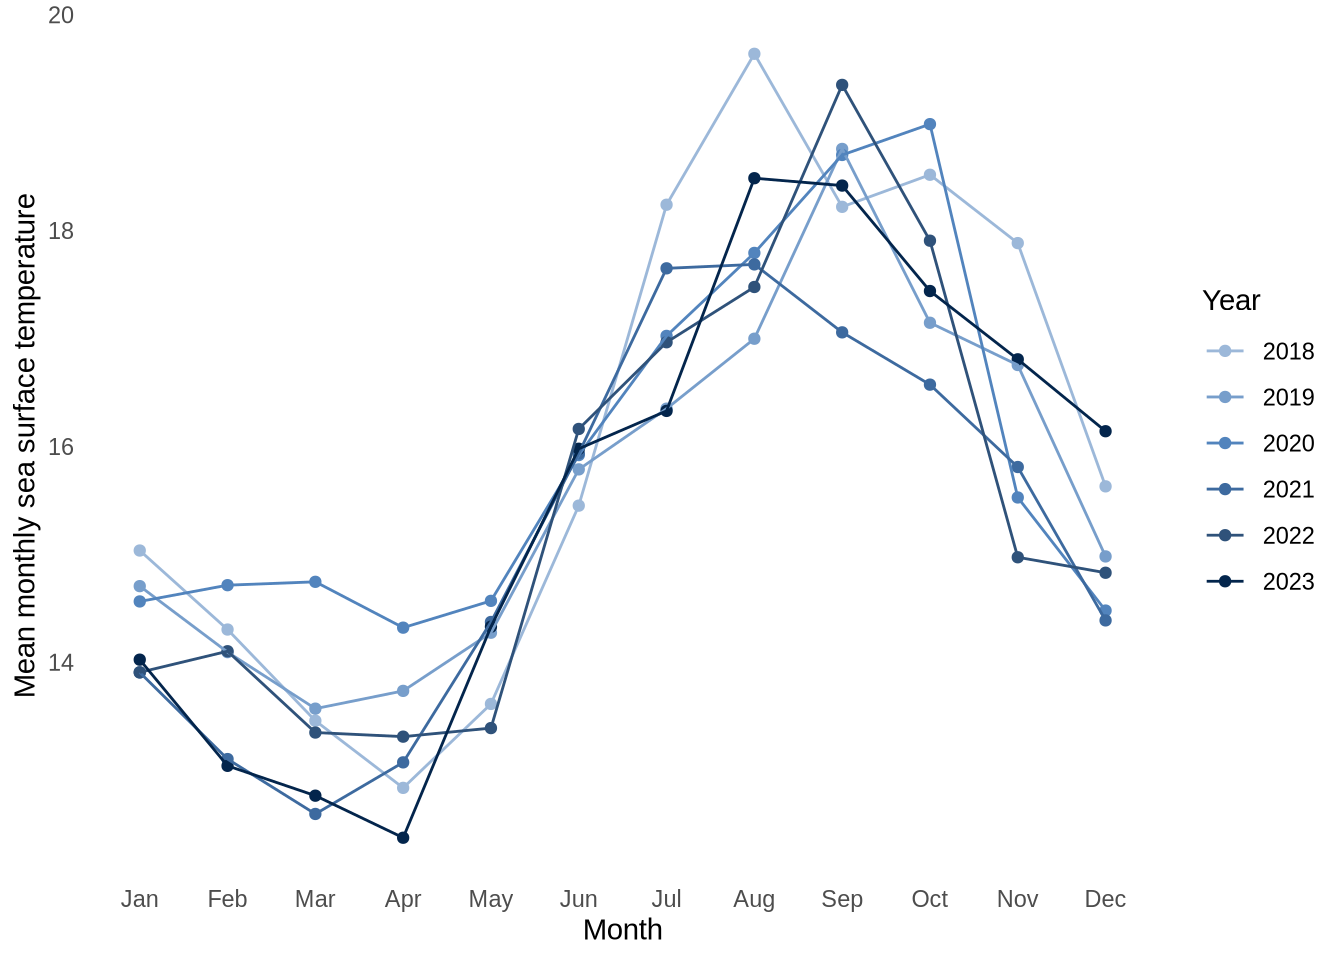
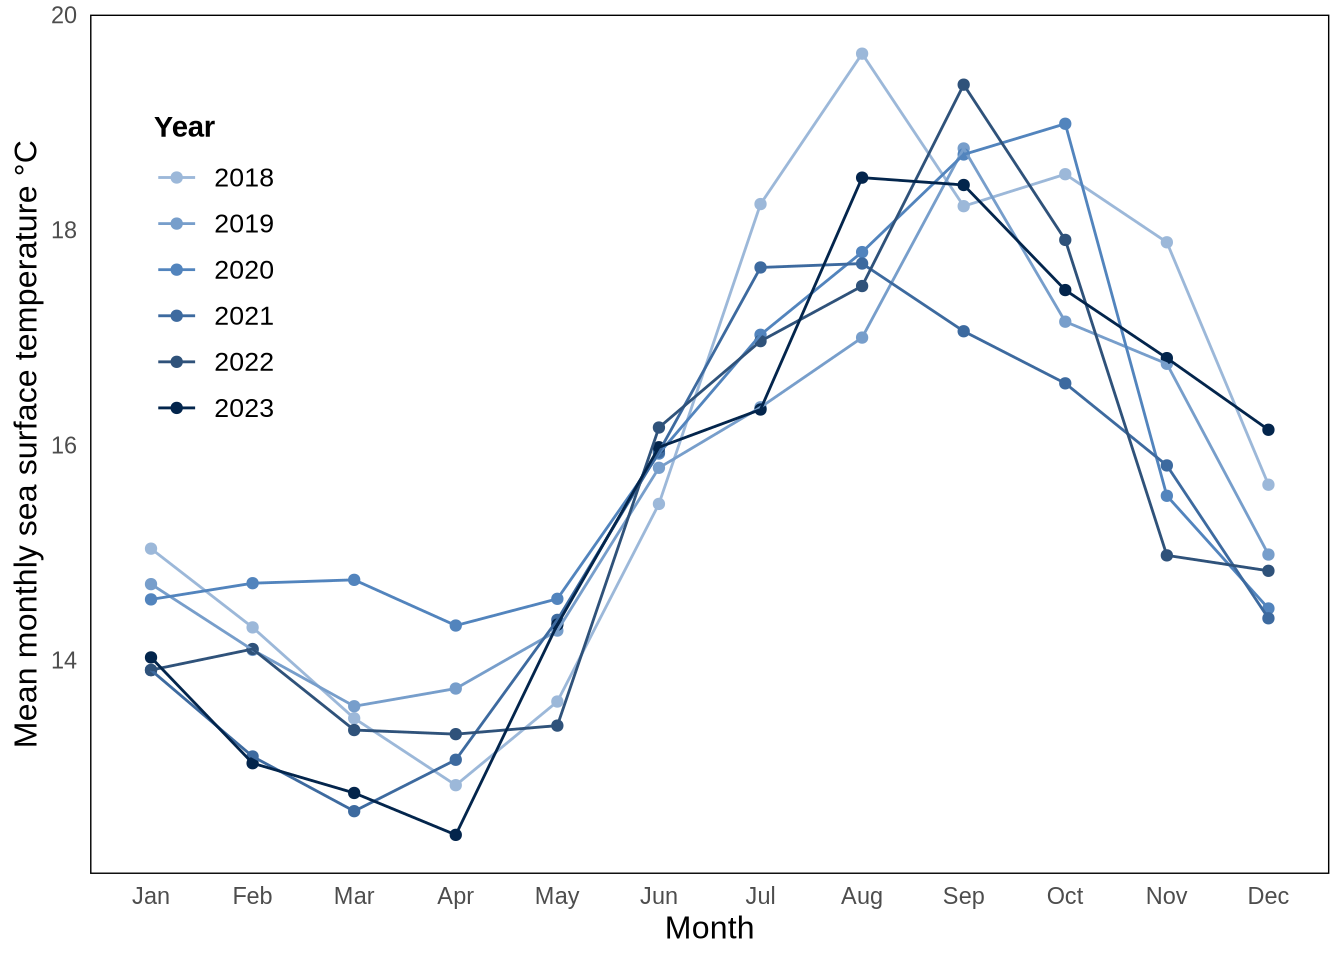
answering problem 1A and 1B, fixing graph in problem 2 to add border and fix legend positioning

diff --git a/code/ENVS-193DS_spring-2025_final.html b/code/ENVS-193DS_spring-2025_final.html
@@ -148,6 +148,11 @@ date (1): date
 <span id="cb8-9"><a href="#cb8-9" aria-hidden="true" tabindex="-1"></a><span class="co"># storing a ggplot theme (that will be used for all ggplots)</span></span>
 <span id="cb8-10"><a href="#cb8-10" aria-hidden="true" tabindex="-1"></a><span class="fu">theme_set</span>(<span class="fu">theme_minimal</span>())</span></code><button title="Copy to Clipboard" class="code-copy-button"><i class="bi"></i></button></pre></div>
 </div>
+<section id="problem-1." class="level2">
+<h2 class="anchored" data-anchor-id="problem-1.">Problem 1.</h2>
+<p><strong>[A]</strong> In part one of the results section, they tested for correlation between distance from headwater (km) and annual total nitrogen load (kg year-1) likely by using a Pearson correlation test, providing a p-value of 0.03. In part two of the results section they tested whether the average nitrogen load (kg year-1) was different between five sources with a one-way ANOVA test.</p>
+<p><strong>[B]</strong> The ANOVA test in part two includes a p-value of 0.02 and conclusion that there is no difference in means among the 5 sources. However to provide more context for the results they could also include a Cohen’s d test to note the effect sizes, and individual group means with their standard errors. While the test concluded there is no significant difference among group means, the small p-value suggests that something is different. Including the effect sizes will tell the reader how different the relationships actually are and its relevance in a real world context i.e.&nbsp;urban land may be higher than grasslands. Providing the group means with standard errors will display how the sample means will vary and help to explain the lack of difference between means by accounting for precision.</p>
+</section>
 <section id="problem-2.-data-visualization" class="level2">
 <h2 class="anchored" data-anchor-id="problem-2.-data-visualization">Problem 2. Data visualization</h2>
 <p><strong>[A]</strong></p>
@@ -174,11 +179,11 @@ date (1): date
 <pre><code># A tibble: 5 × 3
   year  month mean_monthly_sst
   &lt;fct&gt; &lt;ord&gt;            &lt;dbl&gt;
-1 2022  Feb               14.1
-2 2023  Jun               16.0
-3 2019  Dec               15.0
-4 2021  May               14.4
-5 2019  Oct               17.1</code></pre>
+1 2020  Jun               15.9
+2 2022  Feb               14.1
+3 2023  Feb               13.0
+4 2018  Apr               12.8
+5 2023  May               14.3</code></pre>
 </div>
 <div class="sourceCode cell-code" id="cb11"><pre class="sourceCode r code-with-copy"><code class="sourceCode r"><span id="cb11-1"><a href="#cb11-1" aria-hidden="true" tabindex="-1"></a><span class="fu">str</span>(sst_clean)</span></code><button title="Copy to Clipboard" class="code-copy-button"><i class="bi"></i></button></pre></div>
 <div class="cell-output cell-output-stdout">
@@ -199,7 +204,7 @@ date (1): date
 <span id="cb13-7"><a href="#cb13-7" aria-hidden="true" tabindex="-1"></a>  <span class="fu">geom_line</span>() <span class="sc">+</span></span>
 <span id="cb13-8"><a href="#cb13-8" aria-hidden="true" tabindex="-1"></a>  <span class="co"># labels</span></span>
 <span id="cb13-9"><a href="#cb13-9" aria-hidden="true" tabindex="-1"></a>  <span class="fu">labs</span>(<span class="at">x =</span> <span class="st">"Month"</span>,</span>
-<span id="cb13-10"><a href="#cb13-10" aria-hidden="true" tabindex="-1"></a>       <span class="at">y =</span> <span class="st">"Mean monthly sea surface temperature"</span>,</span>
+<span id="cb13-10"><a href="#cb13-10" aria-hidden="true" tabindex="-1"></a>       <span class="at">y =</span> <span class="st">"Mean monthly sea surface temperature °C"</span>,</span>
 <span id="cb13-11"><a href="#cb13-11" aria-hidden="true" tabindex="-1"></a>       <span class="at">color =</span> <span class="st">"Year"</span>) <span class="sc">+</span></span>
 <span id="cb13-12"><a href="#cb13-12" aria-hidden="true" tabindex="-1"></a>  <span class="fu">scale_color_manual</span>(<span class="at">values =</span> <span class="fu">c</span>(</span>
 <span id="cb13-13"><a href="#cb13-13" aria-hidden="true" tabindex="-1"></a>    <span class="st">"2018"</span> <span class="ot">=</span> year2018_col,</span>
@@ -212,8 +217,21 @@ date (1): date
 <span id="cb13-20"><a href="#cb13-20" aria-hidden="true" tabindex="-1"></a>  </span>
 <span id="cb13-21"><a href="#cb13-21" aria-hidden="true" tabindex="-1"></a>  <span class="fu">theme_minimal</span>() <span class="sc">+</span></span>
 <span id="cb13-22"><a href="#cb13-22" aria-hidden="true" tabindex="-1"></a>  <span class="fu">theme</span>(</span>
-<span id="cb13-23"><a href="#cb13-23" aria-hidden="true" tabindex="-1"></a>    <span class="at">panel.grid.major =</span> <span class="fu">element_blank</span>(),</span>
-<span id="cb13-24"><a href="#cb13-24" aria-hidden="true" tabindex="-1"></a>    <span class="at">panel.grid.minor =</span> <span class="fu">element_blank</span>())</span></code><button title="Copy to Clipboard" class="code-copy-button"><i class="bi"></i></button></pre></div>
+<span id="cb13-23"><a href="#cb13-23" aria-hidden="true" tabindex="-1"></a>    <span class="at">axis.title =</span> <span class="fu">element_text</span>(<span class="at">size =</span> <span class="dv">12</span>),</span>
+<span id="cb13-24"><a href="#cb13-24" aria-hidden="true" tabindex="-1"></a>    <span class="at">panel.grid.major =</span> <span class="fu">element_blank</span>(),</span>
+<span id="cb13-25"><a href="#cb13-25" aria-hidden="true" tabindex="-1"></a>    <span class="at">panel.grid.minor =</span> <span class="fu">element_blank</span>(),</span>
+<span id="cb13-26"><a href="#cb13-26" aria-hidden="true" tabindex="-1"></a>    <span class="at">panel.background =</span> <span class="fu">element_rect</span>(<span class="at">fill =</span> <span class="st">"white"</span>, <span class="at">color =</span> <span class="st">"black"</span>),</span>
+<span id="cb13-27"><a href="#cb13-27" aria-hidden="true" tabindex="-1"></a>    </span>
+<span id="cb13-28"><a href="#cb13-28" aria-hidden="true" tabindex="-1"></a>    <span class="co"># Move legend inside the plot</span></span>
+<span id="cb13-29"><a href="#cb13-29" aria-hidden="true" tabindex="-1"></a>    <span class="at">legend.position =</span> <span class="fu">c</span>(<span class="fl">0.1</span>, <span class="fl">0.7</span>),  <span class="co"># adjust as needed</span></span>
+<span id="cb13-30"><a href="#cb13-30" aria-hidden="true" tabindex="-1"></a>    <span class="at">legend.title =</span> <span class="fu">element_text</span>(<span class="at">size =</span> <span class="dv">11</span>, <span class="at">face =</span> <span class="st">"bold"</span>),</span>
+<span id="cb13-31"><a href="#cb13-31" aria-hidden="true" tabindex="-1"></a>    <span class="at">legend.text =</span> <span class="fu">element_text</span>(<span class="at">size =</span> <span class="dv">10</span>)</span>
+<span id="cb13-32"><a href="#cb13-32" aria-hidden="true" tabindex="-1"></a>  )</span></code><button title="Copy to Clipboard" class="code-copy-button"><i class="bi"></i></button></pre></div>
+<div class="cell-output cell-output-stderr">
+<pre><code>Warning: A numeric `legend.position` argument in `theme()` was deprecated in ggplot2
+3.5.0.
+ℹ Please use the `legend.position.inside` argument of `theme()` instead.</code></pre>
+</div>
 <div class="cell-output-display">
 <div>
 <figure class="figure">
